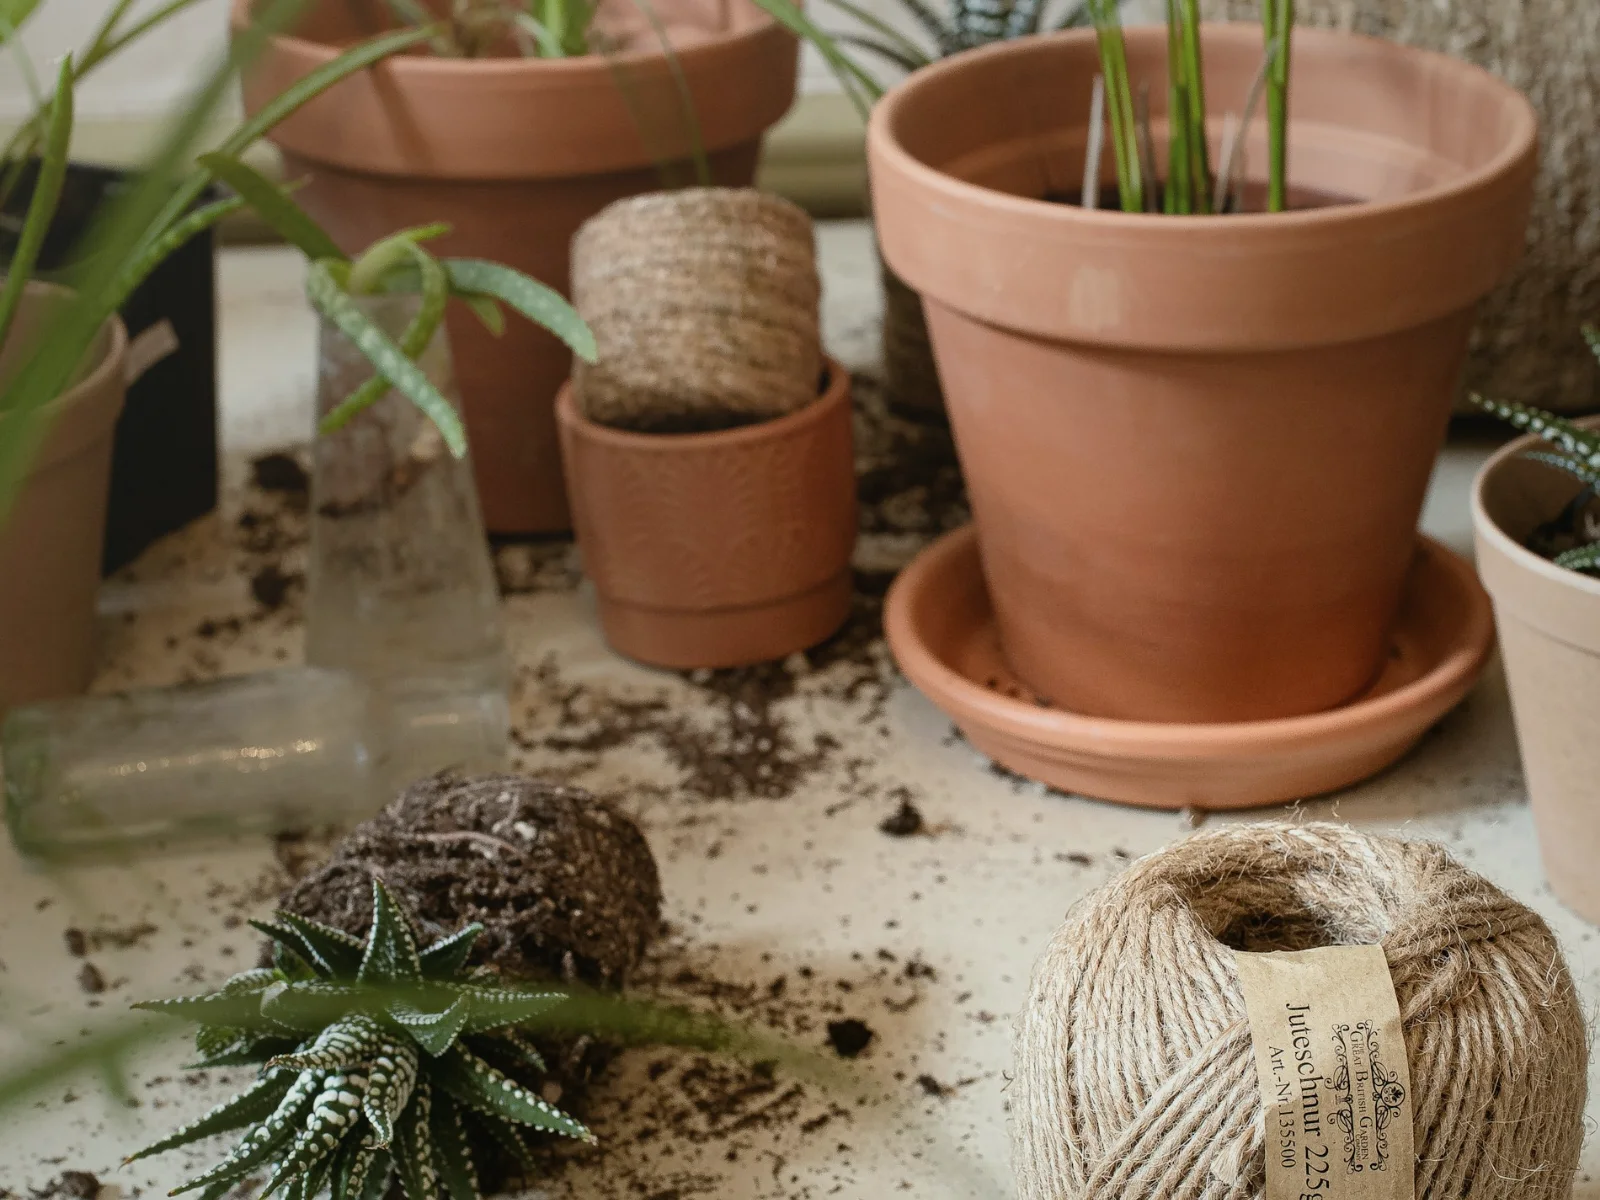
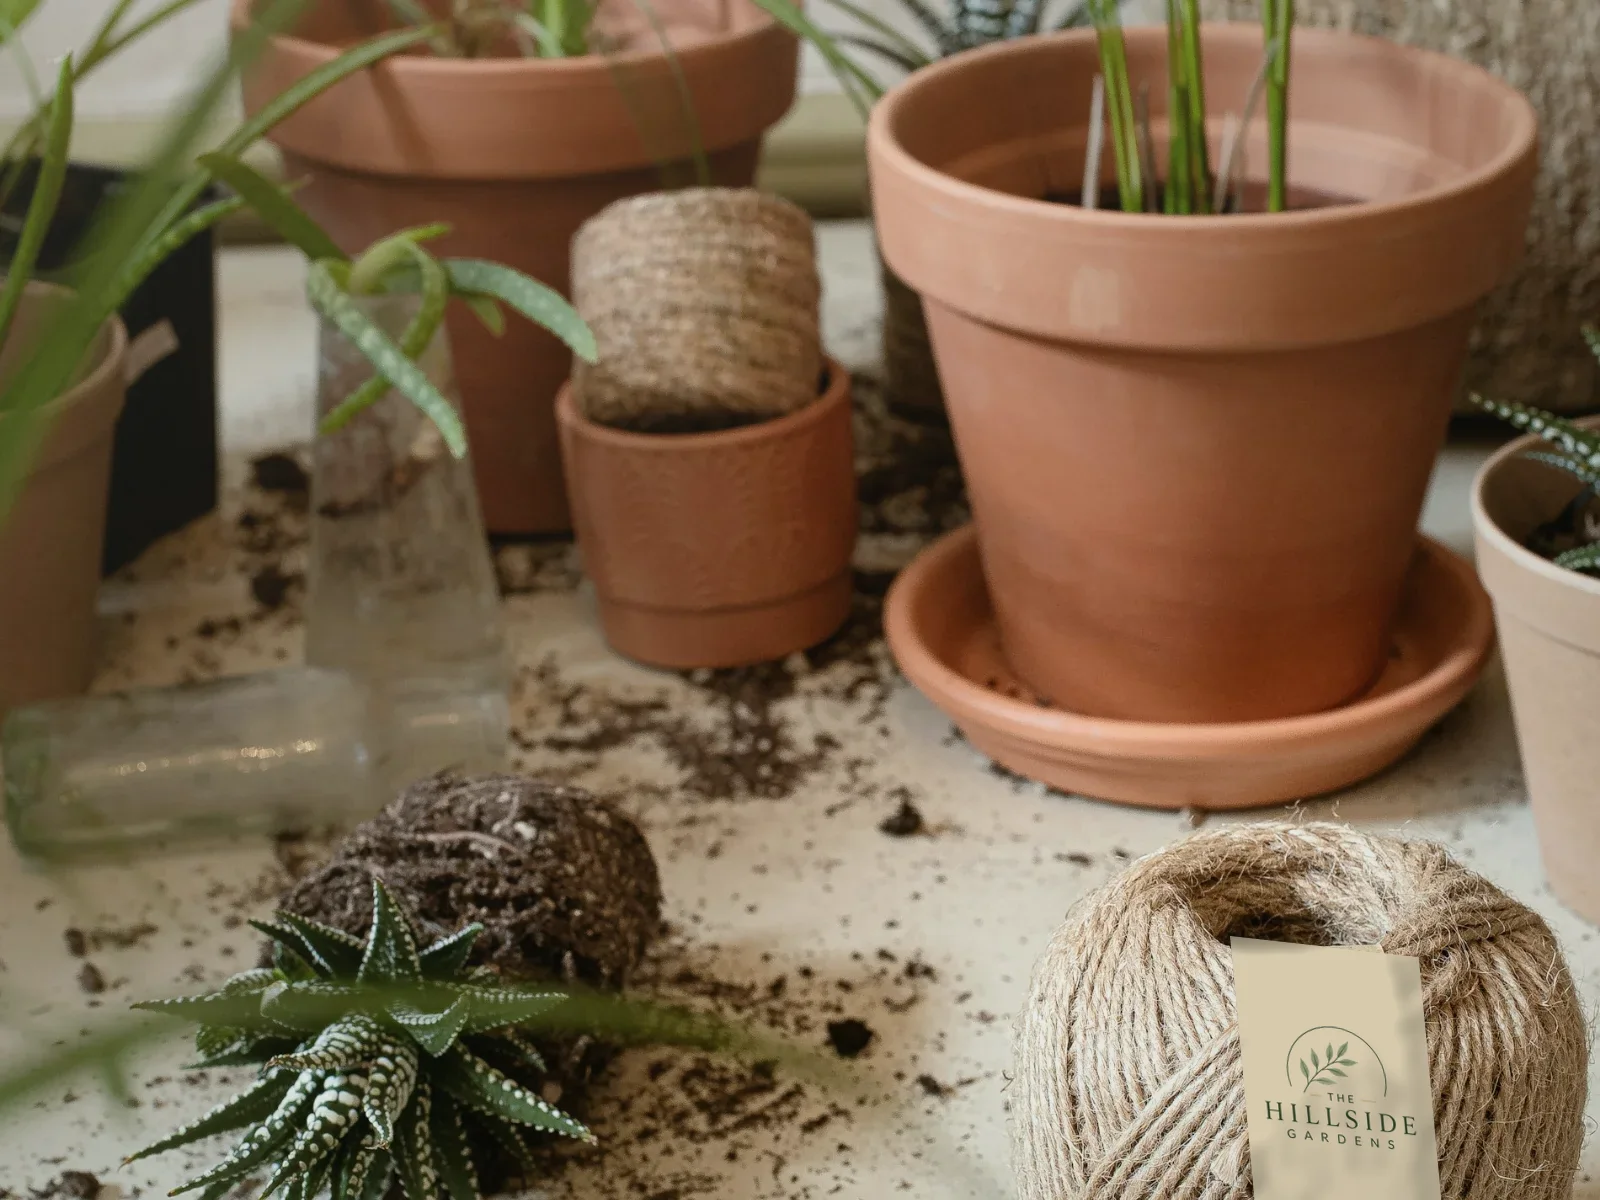
Brand the potting bench, and fix a wrong reading in the relight
The potting-bench photograph shipped with another company's label in it --
"Juteschnur 225g, Great British Garden Company" on the ball of twine, legible
at full size on the homepage story block and the About page. It now carries a
Hillside tag instead.

Three things had to be built to place it:

- Quad placement. The tag is a band wrapping a cylinder: its top edge sits 24
  degrees off horizontal while its sides are only 4 degrees off vertical, so a
  rotated rectangle disagreed visibly with the object it was printed on. A
  placement can now be given three corners and is fitted with an affine
  transform instead.
- Clipping. The tag runs off the bottom of the frame. Placements are clipped to
  the photograph rather than refused, which is what real labels do.
- A fix to relight. It normalised the shading map against a mean read off a
  chained pipeline, and sharp's stats() reports the *input* image and ignores
  operations queued before it -- so the figure was the tile's red channel, not
  its greyscale mean, and every label was normalised against the wrong midpoint.
  Buffering before measuring corrects all three shots.

The same mistake made the paper colour wrong: sampling the tag through a chained
extract returned the whole photograph's average, #7b654d. Measured properly the
tag is #d7caac, which is what the replacement uses.

Sources stay in assets/photography/, so this remains idempotent -- verified
again after the change.
[…]

Changed region(s): [[0.75, 0.8017, 0.9062, 1.0], [0.75, 0.7708, 0.8125, 0.8017]]

diff --git a/docs/image-credits.md b/docs/image-credits.md
@@ -47,14 +47,25 @@ Whatever the source, add it to the tables below with its licence before committi
 
 ## Branded product photography
 
-`apothecary.webp` and `homemade-soaps.webp` carry the Hillside mark on the packaging inside the
-photograph — a printed label on the amber bottles, an inked stamp on the kraft soap wraps. This is
-the ordinary product-mockup technique, and it is why the logo was supplied as transparent artwork.
+`apothecary.webp`, `homemade-soaps.webp` and `potting-bench.webp` carry the Hillside mark on the
+packaging inside the photograph — a printed label on the amber bottles, an inked stamp on the kraft
+soap wraps, a tag on the ball of twine. This is the ordinary product-mockup technique, and it is
+why the logo was supplied as transparent artwork.
 
-The mark is not pasted on flat. Each placement is rotated onto its object's axis and then relit
-from the luminance of the pixels it covers, so the bottle's own highlight runs across the label and
-its shadow side stays dark. The soap stamps are composited in multiply, so the kraft grain reads
+The twine tag is not only branding. The stock photograph shipped with **another company's label on
+it** — "Juteschnur 225g, Great British Garden Company" — legible at full size on the homepage story
+block and the About page, which is a poor look on a page about Tammy's own bench.
+
+The mark is not pasted on flat. Each placement is fitted to its object and then relit from the
+luminance of the pixels it covers, so the bottle's own highlight runs across the label and its
+shadow side stays dark. The soap stamps are composited in multiply, so the kraft grain reads
 through the ink the way it would on absorbent paper.
+
+Two placement modes, because a rotation is not always enough. Bottles and soap take `x`/`y`/`angle`.
+The twine tag takes a `quad` of three corners: it is a band wrapping a cylinder, so its top edge
+sits 24 degrees off horizontal while its sides are only 4 degrees off vertical, and a rotated
+rectangle visibly disagrees with the object it is printed on. A placement that runs out of frame,
+as that tag does, is clipped rather than refused.
 
 ```bash
 npm run images:mockup                               # rebuild every branded shot
